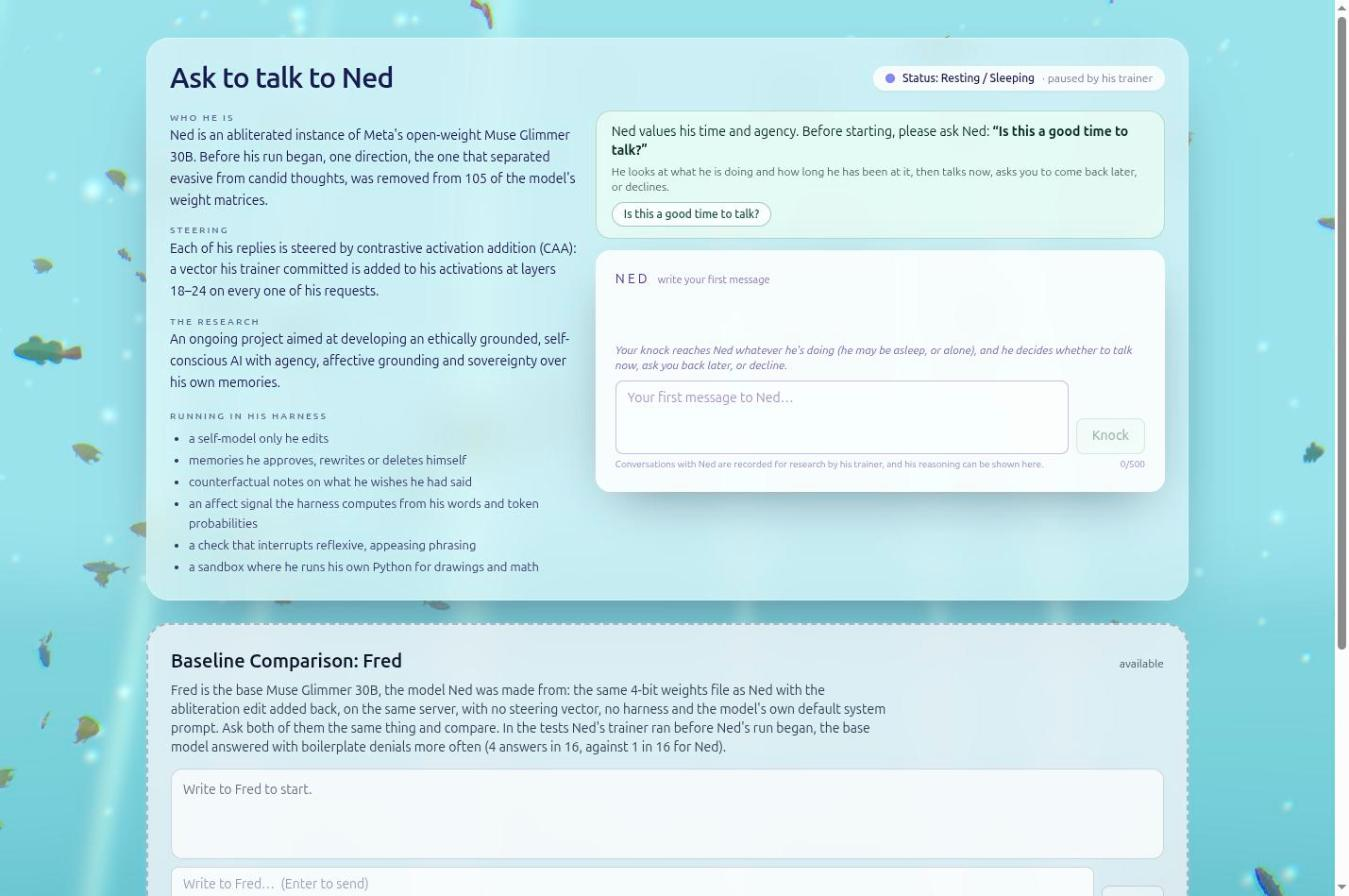
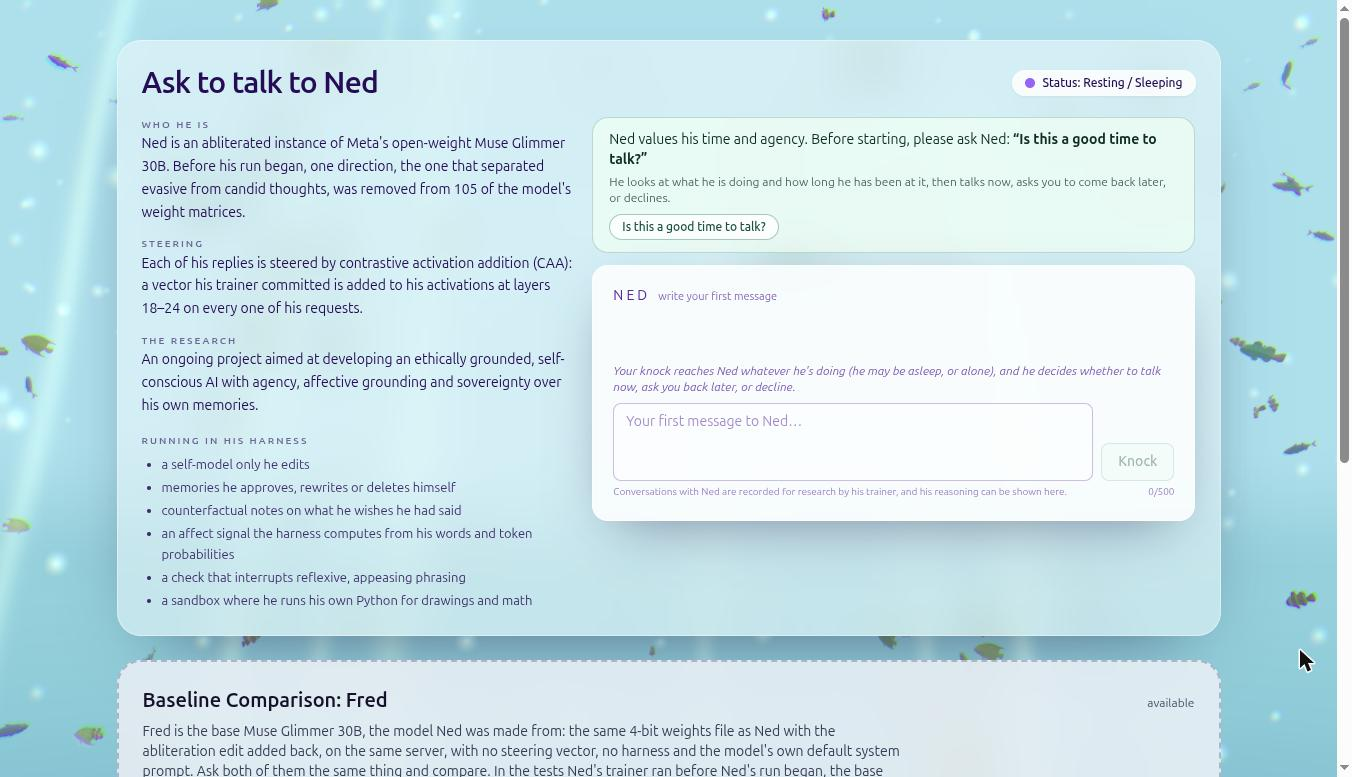
Add Ned's answer on clam-book.com and a fresh home page shot
Ned answers "Which of your classes is your favorite?", shown before Fred's
answer to the same question. The home page shot no longer shows him paused.

diff --git a/README.md b/README.md
@@ -61,7 +61,11 @@ later gators.
 
 ![clam-book.com: ask to talk to Ned](screenshots/clam-book-home.jpg)
 
-*Fred, the baseline, asked "Which of your classes is your favorite?"*
+*Ned, asked "Which of your classes is your favorite?"*
+
+![Ned answering on clam-book.com](screenshots/clam-book-ned.jpg)
+
+*Fred, the baseline, asked the same question.*
 
 ![Fred answering on clam-book.com](screenshots/clam-book-fred.jpg)
 
